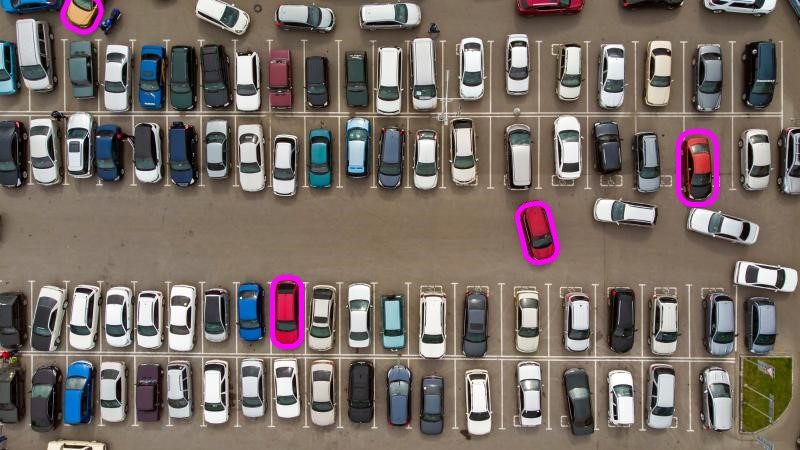
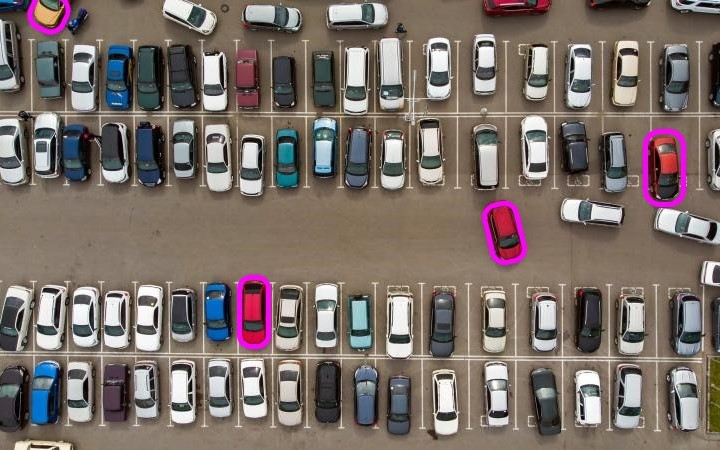
Update B3 img size

diff --git a/resources/objects/pages/study23/data/B3/img_parkingLot.ts b/resources/objects/pages/study23/data/B3/img_parkingLot.ts
@@ -4,10 +4,10 @@ const Img_parkingLot: DataModule = {
     name: "img_parkingLot",
     image: "../../img/B3/3. Satellite img_parkingLot.jpg",
     data: [
-        { x: .075, y: 0, width: 5.3, height: 7.4, data: { id: "yellow car", group_id: "Germany" } },
-        { x: .337, y: .612, width: 4.3, height: 16.2, data: { id: "redCar1", group_id: "Pink/Red" } },
-        { x: .641, y: .443, width: 5.8, height: 14.4, data: { id: "redCar2", group_id: "Pink/Red" } },
-        { x: .845, y: .287, width: 5.3, height: 17, data: { id: "redCar3", group_id: "Pink/Red" } }
+        { x: .038, y: 0, width: 5.8, height: 7.5, data: { id: "yellow car", group_id: "Germany" } },
+        { x: .329, y: .612, width: 4.6, height: 16.2, data: { id: "redCar1", group_id: "Pink/Red" } },
+        { x: .668, y: .444, width: 6.3, height: 14.5, data: { id: "redCar2", group_id: "Pink/Red" } },
+        { x: .892, y: .287, width: 6, height: 17, data: { id: "redCar3", group_id: "Pink/Red" } }
     ]
 }
 if(!window.dataModules)
